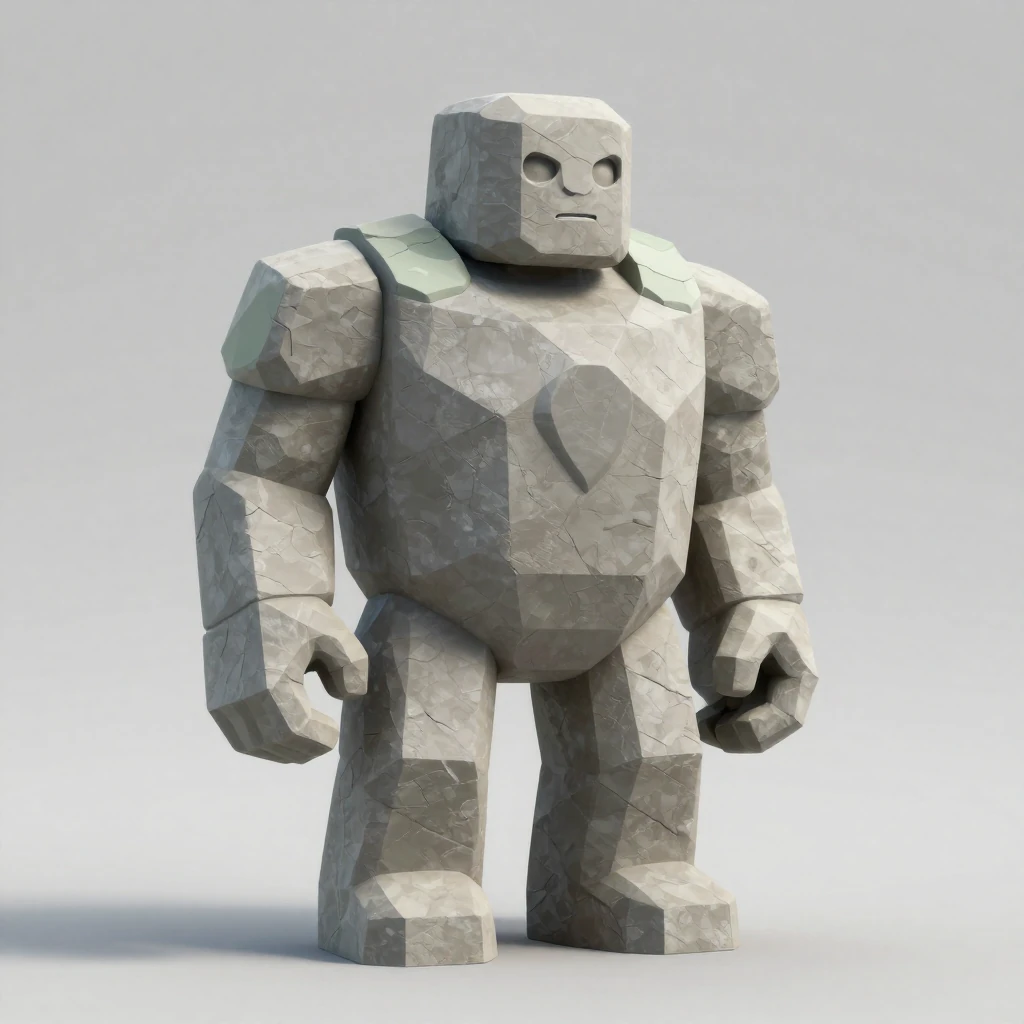
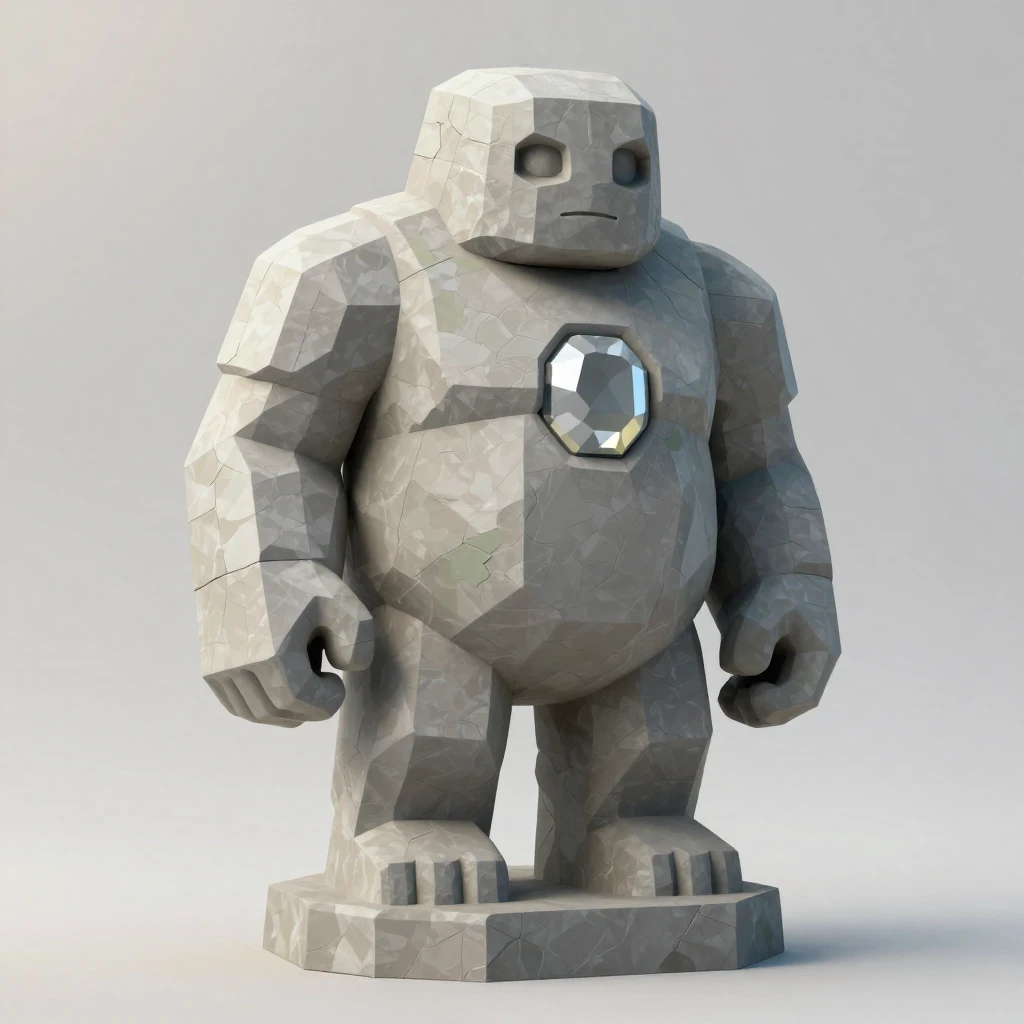
Concepts d'Archipéo : sept images refaites (Soleil de cuivre, Nénu, Golem de roche, Comptable des étoiles, Chouette de verre, Abeille de topaze, Tick)
Leurs prompts et graines dans prompts.md ; les points restants (yeux de Nénu, piquants de Tick, ailes et pattes de l'Abeille) passent au modèle 3D dans la fiche. Les monuments entrent dans le chantier du flux.

diff --git a/docs/univers/archipeo/personnages/prompts.md b/docs/univers/archipeo/personnages/prompts.md
@@ -32,10 +32,10 @@ Low-poly game concept art of an adult anthropomorphic mole, a miner, standing up
 
 ### Le Golem de roche, Gardien (Mine des lettres)
 
-Image : `6e-mine-gardien-golem-de-roche.webp`
+Image : `6e-mine-gardien-golem-de-roche.webp` · graine 42 (seconde passe)
 
 ```text
-Low-poly game concept art of a rock golem guardian statue, standing upright, massive blocky body, short thick legs, both arms hanging straight down along the body, small head sunk between broad shoulders. Seen from its front-left three-quarter. A large faceted gem shape set in the middle of the chest, carved in the same stone, unlit. Calm, dignified expression, neutral closed mouth, shallow hollow eye sockets in soft shadow, no eyeballs, no glowing eyes. Carved entirely in stone, no metal, no glass. Few large flat facets, one flat matte color per facet, smooth untextured surfaces, no cracks. Uniform warm neutral grey stone #8E8C84. One or two flat dull sage-green lichen facets #7A8A6A on the shoulders. Low regular octagonal slab pedestal. One single object, whole statue in frame with margin, no scenery. Plain light neutral grey background, soft diffuse light from top left, no strong cast shadow. Mature, serious, not cute, no text.
+Low-poly game concept art of a rock golem guardian statue standing upright, arms along the body, a broad heavy body made of a few big stone blocks; its small head sits sunk deep between the massive shoulders, no neck. A large faceted gem carved in the middle of its chest, clearly visible, unlit. Shallow hollow eye sockets in soft shadow, calm closed mouth. Seen from its front-left three-quarter. Carved entirely in stone. Few large flat facets, one flat matte color per facet, smooth untextured surfaces. Uniform warm neutral grey stone #8E8C84. One or two flat dull sage-green lichen facets #7A8A6A. Low regular octagonal slab pedestal. One single solid object, whole statue in frame with margin. Plain light neutral grey background, soft diffuse light from top left. Mature, serious, calm, no text.
 ```
 
 ### Rouxel, créature (Carrière des mots)
@@ -80,10 +80,10 @@ Low-poly game concept art of an adult anthropomorphic tortoise, a bookbinder and
 
 ### La Chouette de verre, Gardien (Tour du lecteur)
 
-Image : `6e-tour-gardien-chouette-de-verre.webp`
+Image : `6e-tour-gardien-chouette-de-verre.webp` · graine 7 (seconde passe)
 
 ```text
-Low-poly game concept art of an owl guardian statue, standing upright and tall, wings folded close, two short ear tufts, compact round head. Seen from its front-left three-quarter. A stained-glass window pattern of a few large flat panes carved on the chest, in the same stone, unlit. Calm, dignified expression, neutral closed mouth, shallow hollow eye sockets in soft shadow, no eyeballs, no glowing eyes. Carved entirely in stone, no metal, no glass. Few large flat facets, one flat matte color per facet, smooth untextured surfaces, no cracks. Uniform warm neutral grey stone #8E8C84. One or two flat dull sage-green lichen facets #7A8A6A on the base of the wings. Low regular octagonal slab pedestal. One single object, whole statue in frame with margin, no scenery. Plain light neutral grey background, soft diffuse light from top left, no strong cast shadow. Mature, serious, not cute, no text.
+Low-poly game concept art of a barn owl guardian statue standing upright: a smooth round head with no ear tufts and a heart-shaped facial disc, a slender tall body, wings folded along the body. On its breast, a large stained-glass window pattern carved in the stone with a few clear lead lines, unlit. Shallow hollow eye sockets in soft shadow. Seen from its front-left three-quarter. Carved entirely in stone. Few large flat facets, one flat matte color per facet, smooth untextured surfaces. Uniform warm neutral grey stone #8E8C84. One or two flat dull sage-green lichen facets #7A8A6A. Low regular octagonal slab pedestal. One single solid object, whole statue in frame with margin. Plain light neutral grey background, soft diffuse light from top left. Mature, serious, calm, no text.
 ```
 
 ### Coco, créature (Plaine des nombres)
@@ -104,10 +104,10 @@ Low-poly game concept art of a cockchafer beetle guardian statue, standing on it
 
 ### Nénu, créature (Rivière des fractions)
 
-Image : `6e-riviere-creature-nenu.webp`
+Image : `6e-riviere-creature-nenu.webp` · graine 7 (seconde passe)
 
 ```text
-Low-poly game concept art of an adult anthropomorphic frog, a river ferrywoman, standing upright on its own feet, full body, seen from its front-left three-quarter. Skin water green #6F8F3E, wide flat head. Short open oilskin coat in sand color #DAA66A with short sleeves, green legs and chest visible. Holds a long wooden punting pole #8A6236 upright beside her. Head about one fifth of total height. Small dark eyes without whites, no smile, neutral closed mouth. Few large flat facets, one flat matte color per facet, smooth untextured surfaces. No pedestal, no ground, no scenery. One single character, whole body in frame with margin. Plain light neutral grey background, soft diffuse light from top left, no strong cast shadow. Adult, sober, mature, not cute, not chibi, no text.
+Low-poly game concept art of an anthropomorphic frog ferrywoman standing upright, full body, seen from the front-left three-quarter. Wide flat head, small dark deep-set eyes with no whites, calm closed mouth, water-green skin #6F8F3E. Wears a closed sand-colored oilskin coat #DAA66A buttoned up. Holds a long wooden punting pole #8A6236 upright beside her. Few large flat facets, one flat matte color per facet, smooth untextured surfaces. One single character, whole body in frame with margin, standing on nothing. Plain light neutral grey background, soft diffuse light from top left. Adult, sober, mature, no text.
 ```
 
 ### Le Brochet d'argent, Gardien (Rivière des fractions)
@@ -152,10 +152,10 @@ Low-poly game concept art of a stone lion guardian statue, lying down with its b
 
 ### Tick, créature (Horloge des verbes)
 
-Image : `6e-horloge-creature-tick.webp`
+Image : `6e-horloge-creature-tick.webp` · graine 42 (seconde passe)
 
 ```text
-Low-poly game concept art of an adult anthropomorphic hedgehog, a clockmaker, standing upright on its own feet, full body, seen from its front-left three-quarter. Grey-brown #6E5A48 spines fanned on the back and head in a few large flat plates, cream face and belly, short legs. Plain leather vest #6E4A2C. Holds a small brass clock #C9A24A dial forward, without numbers, and a brass magnifying loupe. Head about one fifth of total height. Small dark eyes without whites, no smile, neutral closed mouth. Few large flat facets, one flat matte color per facet, smooth untextured surfaces. No pedestal, no ground, no scenery. One single character, whole body in frame with margin. Plain light neutral grey background, soft diffuse light from top left, no strong cast shadow. Adult, sober, mature, not cute, not chibi, no text.
+Low-poly game concept art of an old hedgehog clockmaker character with adult proportions standing upright, full body, seen from the front-left three-quarter. A long narrow snout, small dark eyes, calm closed mouth, a serious craftsman face. Grey-brown #6E5A48 spines laid flat along the back and head as a few broad thick plates, no thin spikes. Cream face and belly. Plain leather vest #6E4A2C over a linen shirt. Holds a small brass clock #C9A24A against his chest with both hands, a brass loupe hanging on a short cord at his belt. Few large flat facets, one flat matte color per facet, smooth untextured surfaces. One single character, whole body in frame with margin, standing on nothing. Plain light neutral grey background, soft diffuse light from top left. Adult, sober, mature, no text.
 ```
 
 ### Le Coucou de bronze, Gardien (Horloge des verbes)
@@ -628,10 +628,10 @@ Low-poly game concept art of an adult anthropomorphic squirrel, a cook, standing
 
 ### Le Soleil de cuivre, Gardien (Jardin des heures)
 
-Image : `4e-jardin-gardien-soleil-de-cuivre.webp` · déduit
+Image : `4e-jardin-gardien-soleil-de-cuivre.webp` · déduit · graine 42 (seconde passe)
 
 ```text
-Low-poly game concept art of a sun disc guardian statue standing upright in a stone cradle: a flat round disc with exactly eight straight pointed rays, all equal. Seen from its front-left three-quarter. A thin carved line along each ray, from the center almost to the tip, unlit. No gear, no ring at the edge. No face, no eyes. Carved entirely in stone, no metal, no glass. Few large flat facets, one flat matte color per facet, smooth untextured surfaces, no cracks. Uniform warm neutral grey stone #8E8C84. One or two flat dull sage-green lichen facets #7A8A6A on the center of the disc. Low regular octagonal slab pedestal. One single object, whole statue in frame with margin, no scenery. Plain light neutral grey background, soft diffuse light from top left, no strong cast shadow. Mature, serious, not cute, no text.
+Low-poly game concept art of a sun guardian statue: a flat thin round stone disc standing upright on edge, with eight equal short broad flat rays in the same plane as the disc, like a sunburst medallion, held upright in a low stone cradle on the pedestal. A calm smooth face carved in low relief in the middle of the disc. Seen from its front-left three-quarter. Carved entirely in stone. Few large flat facets, one flat matte color per facet, smooth untextured surfaces. Uniform warm neutral grey stone #8E8C84. One or two flat dull sage-green lichen facets #7A8A6A. Low regular octagonal slab pedestal. One single solid object, whole statue in frame with margin. Plain light neutral grey background, soft diffuse light from top left. Mature, serious, calm, no text.
 ```
 
 ## Les Îles du Ciel (3e)
@@ -662,10 +662,10 @@ Low-poly game concept art of an anthropomorphic owl astronomer standing upright,
 
 ### Le Comptable des étoiles, Gardien (Observatoire des données)
 
-Image : `3e-donnees-gardien-comptable-des-etoiles.webp`
+Image : `3e-donnees-gardien-comptable-des-etoiles.webp` · graine 42 (seconde passe)
 
 ```text
-Low-poly game concept art of a star accountant guardian statue: a standing figure in a long robe and a tall pointed hat, holding a large open ledger in front, no writing. Seen from its front-left three-quarter. A few small stars engraved on the robe, unlit. Calm, dignified expression, neutral closed mouth, shallow hollow eye sockets in soft shadow, no eyeballs, no glowing eyes. Carved entirely in stone, no metal, no glass. Few large flat facets, one flat matte color per facet, smooth untextured surfaces, no cracks. Uniform warm neutral grey stone #8E8C84. One or two flat dull sage-green lichen facets #7A8A6A on the hem of the robe. Low regular octagonal slab pedestal. One single object, whole statue in frame with margin, no scenery. Plain light neutral grey background, soft diffuse light from top left, no strong cast shadow. Mature, serious, not cute, no text.
+Low-poly game concept art of a star-keeper guardian statue: a standing figure in a long plain robe and a tall pointed hat, both hands joined and empty in front of the chest, nothing held. Large five-pointed stars carved in relief all over the robe and the pointed hat. A calm smooth face, shallow hollow eye sockets in soft shadow. Seen from its front-left three-quarter. Carved entirely in stone. Few large flat facets, one flat matte color per facet, smooth untextured surfaces. Uniform warm neutral grey stone #8E8C84. One or two flat dull sage-green lichen facets #7A8A6A. Low regular octagonal slab pedestal. One single solid object, whole statue in frame with margin. Plain light neutral grey background, soft diffuse light from top left. Mature, serious, calm, no text.
 ```
 
 ### Fi, créature (Phare des fonctions)
@@ -806,10 +806,10 @@ Low-poly game concept art of an adult anthropomorphic caterpillar, a weaver, sta
 
 ### L'Abeille de topaze, Gardien (Ruche des réseaux)
 
-Image : `3e-ruche-gardien-abeille-de-topaze.webp` · déduit · graine 42 (seconde passe)
+Image : `3e-ruche-gardien-abeille-de-topaze.webp` · déduit · graine 2026 (seconde passe)
 
 ```text
-Low-poly game concept art of a bee guardian statue sitting heavily on a large flat stone flower, its round striped body resting directly on the flower heart, legs folded under the body, wings spread flat and thick, each with two carved hexagonal cells. Shallow hollow eye sockets in soft shadow, calm closed mouth. Seen from its front-left three-quarter. Carved entirely in stone. Few large flat facets, one flat matte color per facet, smooth untextured surfaces. Uniform warm neutral grey stone #8E8C84. One or two flat dull sage-green lichen facets #7A8A6A. Low regular octagonal slab pedestal. One single solid object, whole statue in frame with margin. Plain light neutral grey background, soft diffuse light from top left. Mature, serious, calm, no text.
+Low-poly game concept art of a solemn bee guardian statue standing upright on four sturdy legs on a low regular octagonal slab pedestal, long elongated body with a pointed striped abdomen, a narrow head with small shallow hollow eye sockets, calm and dignified like an old temple statue. Two thick flat wings folded along its back, each with two carved hexagonal cells. Seen from its front-left three-quarter. Carved entirely in stone. Few large flat facets, one flat matte color per facet, smooth untextured surfaces. Uniform warm neutral grey stone #8E8C84. One or two flat dull sage-green lichen facets #7A8A6A. Low regular octagonal slab pedestal. One single solid object, whole statue in frame with margin. Plain light neutral grey background, soft diffuse light from top left. Mature, serious, calm, no text.
 ```
 
 ### Timbre, créature (Refuge des carnets)

diff --git a/docs/univers/archipeo/personnages/README.md b/docs/univers/archipeo/personnages/README.md
@@ -10,7 +10,7 @@ Ces images sont des références de travail, pas le jeu : l’application ne les
 | --- | --- |
 | Outil | [mflux](https://github.com/filipstrand/mflux) 0.20.0 (licence MIT), en local sur un Mac à puce Apple (16 Go) |
 | Modèle | Z-Image Turbo, version compressée MLX 4 bits [`deepsweet/Z-Image-Turbo-6B-MLX-Q4`](https://huggingface.co/deepsweet/Z-Image-Turbo-6B-MLX-Q4) (licence Apache 2.0) |
-| Réglages | 1024 × 1024, 9 étapes, graine 1206, un prompt par image ; les images refaites en seconde passe ont leur graine notée dans `prompts.md` |
+| Réglages | 1024 × 1024, 9 étapes, un prompt par image ; graine 1206, sauf pour les images refaites, dont la graine est notée sous l’image dans `prompts.md` |
 | Prompts | [`prompts.md`](prompts.md) : écrits par le consultant Archipéo d’après les règles du lot R6 ([`../intentions/r6-personnages.md`](../intentions/r6-personnages.md)) et le prompt du Lion de pierre validé par le mainteneur |
 | Format | WebP (qualité 90), 1024 × 1024, converti depuis le PNG produit |
 | Nom | `<archipel>-<île>-<creature ou gardien>-<nom>.webp`, le même que dans `prompts.md` |
@@ -31,13 +31,13 @@ Les deux Sphinx (des routes, de marbre) sortent toujours avec une barbe postiche
 
 Relectures du consultant Archipéo et du référent dys (8 octobre 2026), à valider par le directeur artistique avant chaque modèle. Les images ne sont pas regénérées pour ces points.
 
-- **Socle** : le socle octogonal commun, dessiné par le code, remplace celui de l’image partout où il manque ou diffère (Lion, Taureau, Dune vivante, les deux Sphinx, Grand-bi, Diligence, Cheval à bascule, Locomotive, Cerf de lauze, Masque, Abeille de topaze).
+- **Socle** : le socle octogonal commun, dessiné par le code, remplace celui de l’image partout où il manque ou diffère (Lion, Taureau, Dune vivante, les deux Sphinx, Grand-bi, Diligence, Cheval à bascule, Locomotive, Cerf de lauze, Masque).
 - **Rien à lire** : livres, feuilles, panneaux et cadrans restent vierges, sans lettre ni chiffre (Tick, Coucou de bronze, Grimoire, Mémo, Astra, Hibou, Grand Lecteur, Puck, Sema).
 - **Rien d’inquiétant** : le Masque garde des orbites peu profondes de la même pierre, sans trou noir, et reçoit la rampe de lumière au pied de sa stèle ; le Spectre et le Colporteur ont une surface pleine sous le voile et sous le chapeau ; la gueule des dragons ne montre pas de crocs.
-- **Yeux et visages** : petits yeux sombres sans blanc (Stat), pas de joues roses (Humus), tête ramenée vers un cinquième de la hauteur (Olive).
+- **Yeux et visages** : petits yeux sombres sans blanc (Stat ; Nénu, dont les yeux ronds reviennent à chaque graine, décision du mainteneur, 8 octobre 2026), pas de joues roses (Humus), tête ramenée vers un cinquième de la hauteur (Olive).
 - **Silhouettes proches** : le Titan d’acier prend des épaules plus larges que les hanches et des plaques régulières, le Golem de roche des blocs bruts et sa gemme en relief ; Jalon et Pince gardent des dominantes de clartés différentes ; le Spectre (voile en goutte) et le Colporteur (chapeau et hotte) se distinguent.
 - **Écho** : un casque de radio ancien en fer `#5C6470`, arceau fin et écouteurs ronds plats, et un micro court.
-- **Pièces fines** : pattes du Flamant de sel et de la Girafe d’ambre, rayons du Grand-bi et de la Diligence, fils de Bazar et du Golem des équations, ailes de la Libellule, treillis de l’Antenne, épaissis pour survivre au budget.
+- **Pièces fines** : pattes du Flamant de sel et de la Girafe d’ambre, rayons du Grand-bi et de la Diligence, fils de Bazar et du Golem des équations, ailes de la Libellule, ailes dressées et pattes de l’Abeille de topaze, piquants de Tick (en quelques larges plaques), treillis de l’Antenne, épaissis pour survivre au budget.
 - **Contrastes** : les Gardiens se détachent des quais et falaises grises par le socle ou l’éclairage ; l’état rallumé se lit par la flamme et les veines, pas par la seule teinte ; les créatures claires sur sable ou neige et les sombres la nuit (Plume, Stat, Fi, Écho) se vérifient sur capture.
 
 ## Refaire une image

diff --git a/docs/pilotage/chantiers.md b/docs/pilotage/chantiers.md
@@ -232,6 +232,6 @@ Décision du mainteneur (2 octobre 2026) : le projet Archipéo est arrêté, il 
 - **Lots** : 1 à 6 construits (le lot 6, à deux univers, fini le 29 septembre 2026, #241) ; lot 7 : 7a, 7b (le 6e en colombage), l’école, la salle des trophées et la Halle au kit du 6e fusionnés ; le bardage des pignons, 7c, 7d et 7e ne sont pas faits ; lots 8 (l’Horizon et le navire ; il change les cases d’un plan partagé, que Blocland relit aussi, et laisse le village des Îles du Ciel à « Développement » jusque-là, dans les deux univers), 8b (la Carte en 3D), 9 (l’archipel vivant) et 10 (un village à soi) pas commencés, avec la disposition en réseau (J).
 - **Rendu (R)** : R0 à R7, S, les quatre R4b, R5 et R6 construits ; la 2D peinte (R7) est retirée du code avec toute la vue 2D (5 octobre 2026). Restes de R6 : répliques des créatures et mot de la baleine propres à Archipéo, miniature du panneau d’île.
 - **Retouches du directeur artistique** : les cumulus d’Archipéo (fin de DA-35), DA-1, DA-2, DA-12, DA-13, DA-22 (la vidéo de l’oiseau planeur), DA-33 ; Archipéo sur téléphone au défi du Gardien, qui déborde encore.
-- **Le flux de l’idée aux assets** : les 102 images de concept des personnages d’Archipéo (51 créatures, 51 Gardiens) sont faites, avec leur fiche et leurs prompts, dans [`docs/univers/archipeo/personnages/`](../univers/archipeo/personnages/README.md) (8 octobre 2026). Restent : le passage de chaque image en modèle 3D par TRELLIS, avec les retouches notées dans la fiche (lichen, lanternes et ivoire repeints en pierre, barbe des Sphinx retirée, fils de Bazar et du Golem des équations épaissis, pièces fines) ; la relecture de quelques choix de dessin par le consultant Archipéo ; le cadre écrit du flux (une fiche par asset, licence, budget, hors ligne).
+- **Le flux de l’idée aux assets** : les 102 images de concept des personnages d’Archipéo (51 créatures, 51 Gardiens) sont faites, avec leur fiche et leurs prompts, dans [`docs/univers/archipeo/personnages/`](../univers/archipeo/personnages/README.md) (8 octobre 2026). Restent : le passage de chaque image en modèle 3D par TRELLIS, avec les retouches notées dans la fiche (lichen, lanternes et ivoire repeints en pierre, barbe des Sphinx retirée, fils de Bazar et du Golem des équations épaissis, pièces fines) ; la relecture de quelques choix de dessin par le consultant Archipéo ; le cadre écrit du flux (une fiche par asset, licence, budget, hors ligne). Les huit monuments d’Archipéo entrent aussi dans le flux (demande du mainteneur, 8 octobre 2026) : trois pistes de rendu attendent son choix, premier essai sur le grand moulin.
 - **Les questions gelées** : voir sur tablette le 7b ; le budget des bornes du 6e ; la limite des 40 appels de dessin par archipel ; les étiquettes de la Carte réunies en un seul objet (la Carte d’Archipéo dessine 51 à 67 appels) ; la baleine d’Archipéo qui dit « … est bâtie » à l’île-port terminée (la Carte dit « Restaurée » ; le nom y prend son article depuis le 6 octobre 2026, « La Plaine des nombres est bâtie. »).
 - **Les suites de la LV2 dans Archipéo** : le bleu ardoise des mares du 3e à voir sur capture et à faire valider par son consultant, le bardeau du Refuge au kit d’architecture du 3e, le crème de Timbre arrêté à la poitrine (proposition à trancher), les marges du budget du 3e après le Refuge (mer 4 550, décor 9 350, construction 7 100, bornes 720, navire 430, total 52 300) à valider par le mainteneur.
